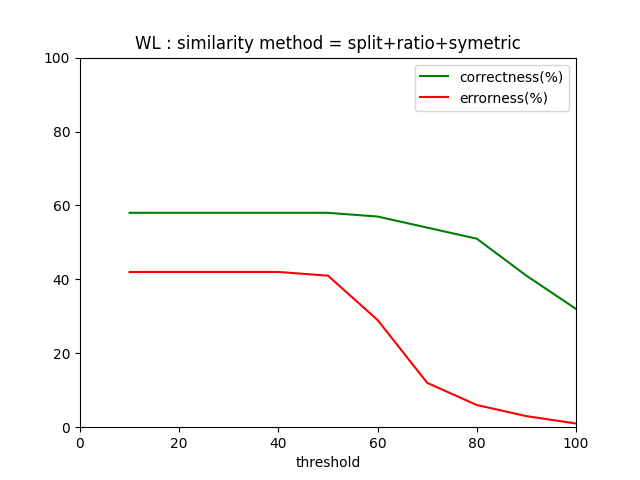
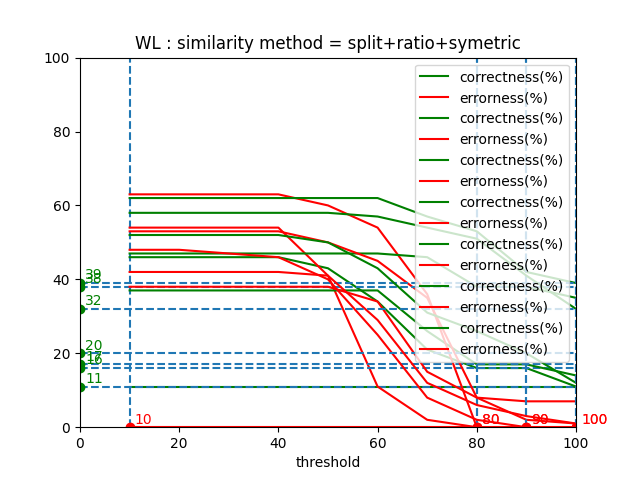
update plot of thresholds results by similarity method chosen

Changed region(s): [[0.125, 0.2188, 0.9375, 0.9062], [0.1875, 0.8438, 0.25, 0.9062], [0.6562, 0.2812, 0.6875, 0.3438]]

diff --git a/src/scripts_Classificrops/draft/test_plot.py b/src/scripts_Classificrops/draft/test_plot.py
@@ -1,0 +1,60 @@
+import pandas as pd
+import numpy as np
+import matplotlib.pyplot as plt
+
+#place = input("place ? ")
+#sim_method = input("sim method ? ")
+
+def best_sim_one_area(place, sim_method): 
+
+    compare_df = pd.read_csv('/home/BTemple-Boyer-Dury/Documents/Classificrops/data/result/optimize_threshold_'+place+'_'+sim_method+'.csv')
+
+    ax = plt.axis([0, 100, 0, 100])
+    ax = plt.gca()
+
+    compare_df.plot(kind='line',x='threshold',y='correctness(%)', color = 'green',ax=ax)
+    compare_df.plot(kind='line',x='threshold',y='errorness(%)', color='red', ax=ax)
+
+    if 0 in compare_df['errorness(%)'].unique():
+        index_min = compare_df[compare_df['errorness(%)']==0].index[0] 
+    else:
+        index_min = compare_df['errorness(%)'].idxmin()
+    #if index_min == np.nan:
+    #    index_min = compare_df['errorness(%)'].idxmin()
+
+    print(index_min)
+    print(compare_df.iloc[index_min]['threshold'])
+    threshold_optimal = compare_df.iloc[index_min]['threshold']
+
+    plt.axvline(threshold_optimal, 0, 100, label='minimum errorness reached', linestyle='--')
+    plt.plot(threshold_optimal,0, "ro", color="red")
+    plt.text(  
+        threshold_optimal+1,1, threshold_optimal,  
+        ha='left', 
+        color='red'
+    )
+
+    cor_max = compare_df.iloc[index_min]['correctness(%)']
+    plt.axhline(y = cor_max, linestyle = '--')
+    plt.plot(0,cor_max, "ro", color="green")
+    plt.text(  
+        1,cor_max+1, cor_max,  
+        ha='left', 
+        color='green'
+    )
+
+    plt.title(place +' : similarity method = '+sim_method)
+    plt.savefig('/home/BTemple-Boyer-Dury/Documents/Classificrops/docs/images/optimal_threshold/'+place+'_'+sim_method+'.png')
+    #plt.show()
+
+    return (sim_method, index_min, compare_df.iloc[index_min]['errorness(%)'], cor_max)
+
+sim_methods = ['basic', 'ratio', 'token_sort_ratio', 'token_set_ratio', 'partial_ratio', 'split+ratio', 'split+ratio+symetric']
+all_sim_results =[]
+for s in sim_methods: 
+    all_sim_results.append(best_sim_one_area('WL',s))
+print(all_sim_results)
+all_sim_df = pd.DataFrame(all_sim_results, columns = ['sim_method','index_min', 'errorness', 'correctness'])
+err_min = all_sim_df[all_sim_df['errorness']== all_sim_df['errorness'].min()]
+id_cor_max = all_sim_df['correctness'].idxmax()
+print(all_sim_df.iloc[id_cor_max]['sim_method'])

diff --git a/src/scripts_Classificrops/optimal_threshold_N.py b/src/scripts_Classificrops/optimal_threshold_N.py
@@ -61,7 +61,10 @@ def optimal_threshold(src_path_input, place, lg,sim_method, handmade_path):
         compare_list.append(compare(handmade,computed,t))
 
     compare_df = pd.DataFrame (compare_list, columns = ['threshold','correctness(%)', 'errorness(%)'])
-    
+    index_err_0 = compare_df[compare_df['errorness(%)']==0].index[0]
+    threshold_optimal = index_err_0['threshold']
+    print(threshold_optimal)
+    plt.axvline(threshold_optimal, 0, 100, label='minimum errorness reached')
     parent = Path(__file__).parents[2]
     compare_path = parent.joinpath('data', 'result','optimize_threshold_'+place+'_'+sim_method+'.csv')
     compare_df.to_csv(compare_path, index=False)
@@ -74,7 +77,7 @@ def optimal_threshold(src_path_input, place, lg,sim_method, handmade_path):
     plt.title(place +' : similarity method = '+sim_method)
     plt.show()
 
-optimal_threshold('/home/BTemple-Boyer-Dury/Documents/Classificrops/data/WL/WL_2020.csv', 'WL', 'fr','token_set_ratio', '/home/BTemple-Boyer-Dury/Documents/Classificrops/data/WL/handmade_Nicolas_light.csv')
+optimal_threshold('/home/BTemple-Boyer-Dury/Documents/Classificrops/data/FR/FR_2020.csv', 'FR', 'fr','ratio', '/home/BTemple-Boyer-Dury/Documents/Classificrops/data/FR/handmade_Nicolas_light.csv')
 
 '''handmade = pd.read_csv('/home/BTemple-Boyer-Dury/Documents/Classificrops/data/FR/handmade_Nicolas_light.csv', encoding= 'unicode_escape')
 handmade['ID_GROUP_ICC_str'] = handmade['ICC1.1'].str[:1]

diff --git a/src/scripts_Agrivolution/draft_report_gpd_example.py b/src/scripts_Agrivolution/draft_report_gpd_example.py
@@ -1,5 +1,7 @@
 import geopandas as gpd 
 
-Occitania_example = gpd.read_file("/home/BTemple-Boyer-Dury/Documents/Agrivolution/data/shp/RPG_2-0_SHP_LAMB93_R76_2020/PARCELLES_GRAPHIQUES.shp")
+Occitania_RPG = gpd.read_file("/home/BTemple-Boyer-Dury/Documents/Agrivolution/data/shp/RPG_2-0_SHP_LAMB93_R76_2020/PARCELLES_GRAPHIQUES.shp")
 
-Occitania_example.to_csv("/home/BTemple-Boyer-Dury/Documents/Classificrops/data/result/geog_data_example_gpd.csv")
+Occitania_short = Occitania_RPG[:50]
+
+Occitania_short.to_csv("/home/BTemple-Boyer-Dury/Documents/Classificrops/data/result/geog_data_example_gpd.csv")

diff --git a/src/scripts_Classificrops/converter_2.py b/src/scripts_Classificrops/converter_2.py
@@ -37,6 +37,12 @@ def match_row_row(c,idS,src,trg,idT,threshold,sim_method):
     nb = 0
     if sim_method == 'token_set_ratio':
         nb = fuzz.token_set_ratio(src,trg)
+    if sim_method == 'token_sort_ratio':
+        nb = fuzz.token_sort_ratio(src,trg)
+    if sim_method == 'partial_ratio':
+        nb = fuzz.partial_ratio(src,trg)
+    if sim_method == 'ratio':
+        nb = fuzz.ratio(src,trg)
     elif sim_method == 'split+ratio':
         if type(src) == str and type(trg) == str:
             src_l = src.split()
